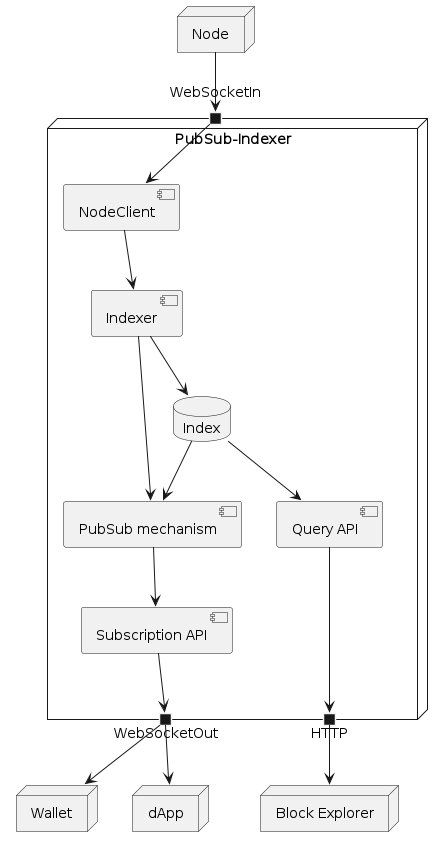
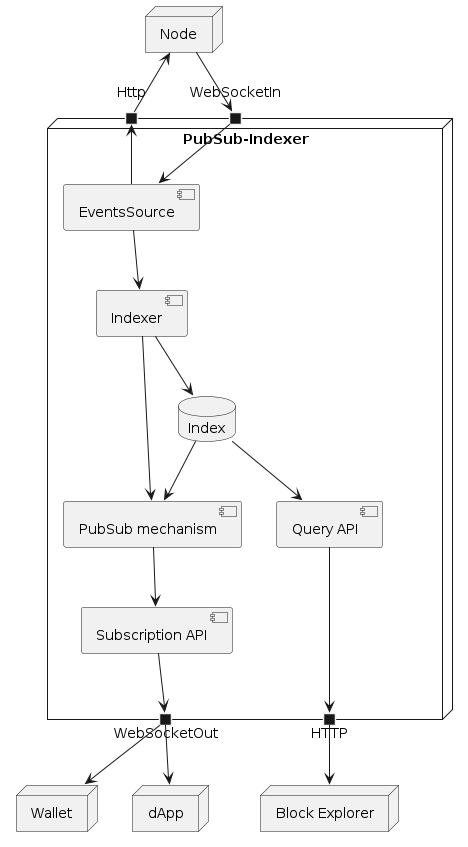
Update documentation

diff --git a/components/PubSubIndexer/README.md b/components/PubSubIndexer/README.md
@@ -10,7 +10,7 @@ To solve this mismatch, PubSub-Indexer retrieves the history of blocks, processe
 data with a structure that is optimized (i.e. _indexed_) for the end users' applications. It also
 offers a mechanism so that applications can subscribe to be notified whenever some data of their
 interest changes, avoiding the necessity to constantly poll to see if there is something new that
-they should be aware.
+they should be aware of.
 
 ## Special Needs
 
@@ -27,23 +27,27 @@ one [node](missing_documentation).
 
 ![](./components.svg)
 
+**Events Source:** This component is responsible for subscribing to and requesting data from a node.
+
+**Indexer:** The indexer receives events from the events source, processes them, and stores them in the index. It also takes care of notifying the pubsub mechanism about these events.
+
+**Pubsub Mechanism:** This component allows various parts of the system to publish and subscribe to specific topics, facilitating real-time data updates.
+
+**Subscription API:** The subscription API provides WebSocket-based subscriptions. Clients can use it to receive real-time updates and notifications about events and data changes.
+
+**Query API:** This component offers an HTTP API that allows clients to query and retrieve data from the index, providing a more structured and user-friendly way to access information through a GraphQL interface.
+
 ### Wallets
 
-Wallets allow users to build transactions that transfer tokens and/or call or deploy contracts. All
-transactions will spend some of the user's coins, so wallets need to know the transactions that send
-coins to the user's addresses, and they also need to know when a transaction they submitted was
-confirmed, in order to mark the input coins as spent and remove them from their available coins.
+Wallets allow users to build transactions that transfer tokens and/or call or deploy contracts. All transactions will spend some of the user's coins, so wallets need to know the transactions that send coins to the user's addresses, and they also need to know when a transaction they submitted was confirmed, in order to mark the input coins as spent and remove them from their available coins.
 
 ### dApps
 
-dApps are all about contracts, and so they need to know when a contract's state was updated. This
-means knowing when and how a contract was called, in order to update the state.
+dApps are all about contracts, and so they need to know when a contract's state was updated. This means knowing when and how a contract was called, in order to update the state.
 
 ### Block explorers
 
-A block explorer will typically allow users to find blocks by their hash or height, find
-transactions by hash, or get a contract state by address. PubSub-Indexer allows for simply doing
-these kind of queries and getting an immediate response.
+A block explorer will typically allow users to find blocks by their hash or height, find transactions by hash, or get a contract state by address. PubSub-Indexer allows for simply doing these kind of queries and getting an immediate response.
 
 ## Operating Environment
 
@@ -75,18 +79,29 @@ Possibly any _desktop_ operating system may be used, the most popular ones are:
 
 #### Transaction
 
-#### Transaction Input
-
-#### Transaction Output
-
 #### Contract Call
 
 #### Contract Deploy
 
+#### WalletAppliedTransaction
+
 ### Invariants
 
-_This MUST include state invariants expressed in terms of the ER model that describe the valid states
-of the system._
+1. Once data is persisted, it should remain available and consistent over time. 
+2. Any data retrieval or query operation for information from the genesis block or any subsequent block should consistently return the same results as initially.
+3. For each block, every transaction associated must be indexed.
+4. For each indexed transaction, its associated block must include it in its list of transactions.
+5. For each block, its parent field should refer to a valid parent block.
+6. A parent block should have a height that is one less than the height of the following block.
+7. The hash of the parent block should match the parent field in the following block.
+8. If a transaction is listed in the transactions of a block, then the block field of said transaction should refer to that block.
+9. For each contract call or deploy listed in a transaction's contractCalls, the transaction field of the contract call or deploy should refer to the same transaction that contains it in its contractCalls list.
+10. For each contract call there must be a single corresponding contract deploy with the same address.
+11. Each wallet session is uniquely identified by a session ID, which is randomly generated and associated to a viewing key.
+12. If a session ID is removed, a new session ID will be generated for the same viewing key when requested.
+13. Each transaction has an associated wallet local state that can be generated if there is a session with the viewing key that owns the transaction.
+14. The wallet local state associated with a particular transaction remains consistent for every wallet session.
+
 
 ## Responsibilities
 
@@ -97,10 +112,16 @@ to be defined in more detail.
 
 ```graphql
 
-# It's not possible to use a union as input type, so using 2 optional fields
-input BlockOffset {
+union WalletSyncEvent = ProgressUpdate | TransactionAdded
+
+input BlockOffsetInput {
   hash: BlockHash
   height: BlockHeight
+}
+
+input TransactionOffsetInput {
+  hash: String
+  identifier: String
 }
 
 type Block {
@@ -115,55 +136,43 @@ type Transaction {
   block: Block!
   hash: TransactionHash!
   identifiers: [TransactionIdentifier!]!
-  inputs: [TransactionInput!]!
-  outputs: [TransactionOutput!]!
   contractCalls: [ContractCallOrDeploy!]!
+  raw: RawTransaction!
+  fallible: Boolean!
 }
 
-type TransactionInput {
+type TransactionAdded {
   transaction: Transaction!
-  nullifier: Nullifier!
-  valueCommitment: ValueCommitment!
-  merkleTreeRoot: MerkleTreeHash!
+  state: WalletLocalState
 }
 
-type TransactionOutput {
-  transaction: Transaction!
-  coinCommitment: CoinCommitment!
-  valueCommitment: ValueCommitment!
-}
-
-type Contract {
-  address: ContractAddress!
-  state: ContractState!
-  deploy: ContractDeploy
-  calls: [ContractCall!]!
+type ProgressUpdate {
+  synced: BlockHeight
+  total: BlockHeight
 }
 
 interface ContractCallOrDeploy {
-  transaction: Transaction!
   state: ContractState!
+  transaction: Transaction!
+  address: ContractAddress!
+  zswapChainState: ZswapChainState!
 }
 
 type ContractCall implements ContractCallOrDeploy {
   transaction: Transaction!
   deploy: ContractDeploy!
-  state: ContractState! # Means new state after this contract call
+  address: ContractAddress!
+  state: ContractState! # New state after this contract call
+  zswapChainState: ZswapChainState!
   operation: ContractOperation!
 }
 
 type ContractDeploy implements ContractCallOrDeploy {
   transaction: Transaction!
   address: ContractAddress!
-  state: ContractState! # Means initial contract state
+  state: ContractState! # Initial contract state
   definition: ContractDefinition!
-}
-
-union TransactionSyncEvent = ProgressUpdate | Transaction
-
-type ProgressUpdate {
-  synced: BlockHeight
-  total: BlockHeight
+  zswapChainState: ZswapChainState!
 }
 
 scalar BlockHash
@@ -173,12 +182,6 @@ scalar BlockHeight
 scalar TransactionHash
 
 scalar TransactionIdentifier
-
-scalar Nullifier
-
-scalar CoinCommitment
-
-scalar ValueCommitment
 
 scalar ContractAddress
 
@@ -195,6 +198,12 @@ scalar SessionId
 scalar DateTime
 
 scalar Void
+
+scalar RawTransaction
+
+scalar ZswapChainState
+
+scalar WalletLocalState
 ```
 
 ### API's
@@ -205,11 +214,11 @@ This is a set of stateless request-response APIs that can be exposed on top of H
 It is implicitly meant to be used by a public blockchain explorer.
 
 ```graphql
-# No offset argument means that client wants to get the latest
+# No block offset argument means that client wants to get the latest
 type Query {
-    block(offset: BlockOffset): Block
-    transaction(hash: TransactionHash, identifier: TransactionIdentifier): Transaction
-    contract(address: ContractAddress!): Contract
+    block(offset: BlockOffsetInput): Block
+    transaction(offset: TransactionOffsetInput): Transaction
+    contract(address: String!, offset: BlockOffsetInput): ContractCallOrDeploy
 }
 ```
 
@@ -227,27 +236,39 @@ type Subscription {
 }
 ```
 
-#### Viewing key subscriber
+#### Blocks Subscriber 
 
-Also a subscription API, it provides clients with all the events (i.e. transactions)
-related to a particular viewing key if one is passed, all transactions are streamed if no viewing
-key is given.
+This subscription API provides clients with all the blocks
 
-The clients must first connect to get a session identifier and then use the identifier to subscribe
+```graphql
+type Subscription {
+    blocks(offset: BlockOffsetInput): Block
+}
+```
+
+#### Transactions subscriber
+
+This subscription API provides clients with all the transactions. If `sessionId` is provided either by argument or in the header of the request, only transaction associated to that ID will be returned with associated `WalletLocalState`.
+
+```graphql
+type Subscription {
+    transactions(offset: TransactionOffsetInput, sessionId: SessionId): WalletSyncEvent
+}
+```
+
+To obtain the ID, the clients must first connect with a viewing key to get the session identifier and then use the identifier to subscribe
 and start receiving all the relevant transactions.
 
-This API design is meant for wallets. Only wallets should have access to user's keys and with the
-inputs and outputs information can build a view of the available coins.
+This API design is meant for wallets. Only wallets should have access to user's keys and with the inputs and outputs information can build a view of the available coins.
 
 ```graphql
 type Mutation {
     connect(key: ViewingKey): SessionId!
     disconnect(sessionId: SessionId!): Void!
 }
-type Subscription {
-    transactions(id: SessionId!, hash: TransactionHash): TransactionSyncEvent
-}
 ```
+Disconnect mutation will permanently remove the session associated to the viewing key. To subscribe again to a wallet's transactions, a new session must be created.
+
 
 ## Architecture Characteristics
 
@@ -264,9 +285,25 @@ needs of the particular component._
 
 ### Configurability
 
-_Configurability is a cross-cutting responsibility that affects many API's. The antidote to a
-regrettable constant in your code is proper configurability. What are the configuration parameters (
-policy) supported by the component?_
+The component accepts the following configurations
+- Storage:
+  - `driver-name`
+  - `jdbc-url`
+  - `user`
+  - `pass`
+  - `thread-pool-size`
+- Transaction Steam
+  - `progress-update-delay`
+- Server
+  - `host`
+  - `port`
+- Events-source
+  - `node-host`
+- API
+  - `max-cost`
+  - `max-depth`
+  - `max-fields`
+  - `timeout`
 
 ### Performance
 

diff --git a/components/README.md b/components/README.md
@@ -9,3 +9,4 @@ Please define each new component as a new subfolder here, and use the provided [
 - Circuit Compiler
 - Lares Runtime (Typescript)
 - [Transaction kernel](kernel)
+- [Pub-Sub Indexer](./PubSubIndexer/)
